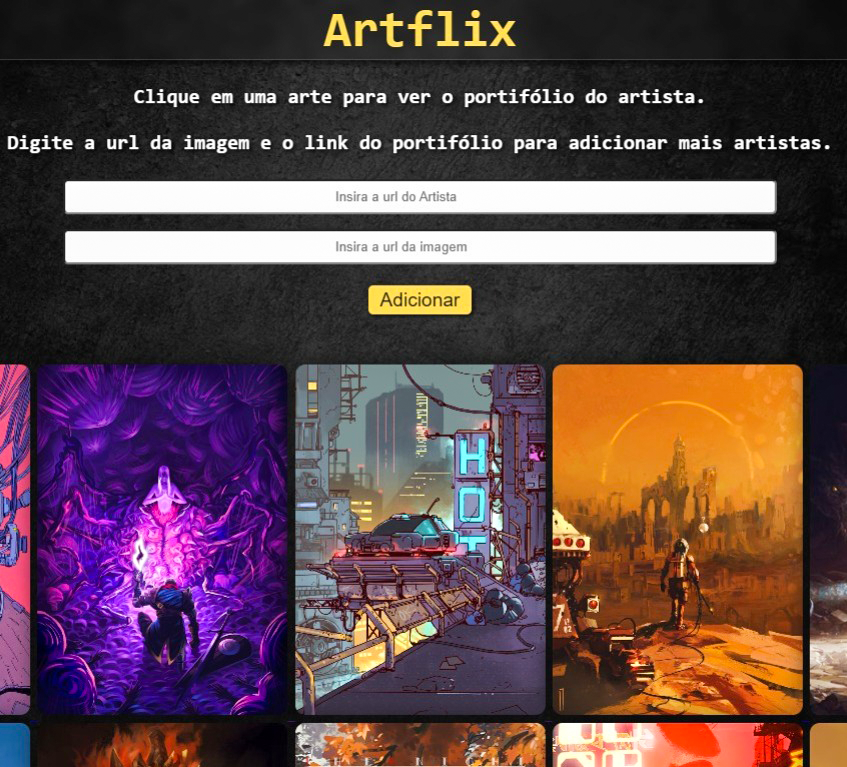
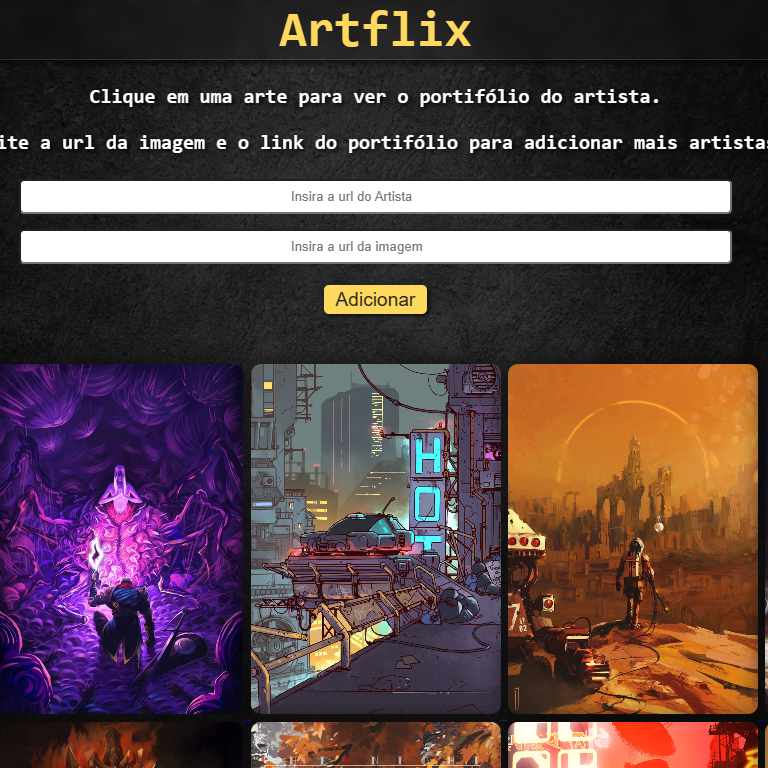
Arrumando pagina projetos

diff --git a/styles/sass/styles.css b/styles/sass/styles.css
@@ -645,13 +645,14 @@ body #projects .carrousel .frames {
   width: 100%;
 }
 body #projects .carrousel .frames .frame {
-  position: relative;
-  display: flex;
   align-items: center;
+  box-shadow: 0px 0px 50px 5px #C77318;
+  display: flex;
+  position: relative;
+  margin: auto;
   justify-content: center;
   width: 28rem;
   height: 100%;
-  box-shadow: 0px 0px 50px 5px #C77318;
   z-index: 10;
 }
 body #projects .carrousel .frames .frame .frame-image {
@@ -680,17 +681,20 @@ body #projects .carrousel .frames .frame-right .frame-image_small {
 body #projects .carrousel .frames .frame-right .project-image_small {
   height: 100%;
   width: 100%;
+  right: 9.5rem;
+  top: 1.5rem;
   -o-object-fit: cover;
      object-fit: cover;
   position: relative;
 }
 body #projects .carrousel .frames .frame-left {
-  height: 22rem;
+  height: 60%;
   width: 22rem;
-  z-index: 0;
+  z-index: 1;
 }
 body #projects .carrousel .frames .frame-left .frame-image_small {
   position: absolute;
+  left: 0;
   width: 50%;
   height: 50%;
   z-index: 1;
@@ -698,14 +702,33 @@ body #projects .carrousel .frames .frame-left .frame-image_small {
 body #projects .carrousel .frames .frame-left .project-image_small {
   height: 100%;
   width: 100%;
+  left: 9.5rem;
+  top: 1.5rem;
   -o-object-fit: cover;
      object-fit: cover;
+  position: relative;
 }
-body #projects .carrousel .prev {
-  left: 10px;
+body #projects .prev {
+  background: transparent;
+  border: none;
+  display: flex;
+  align-items: center;
+  justify-content: center;
+  position: absolute;
+  left: 3.8rem;
+  top: 52%;
 }
-body #projects .carrousel .next {
-  right: 10px;
+body #projects .next {
+  background: transparent;
+  border: none;
+  margin: 0 auto;
+  position: absolute;
+  right: 3.8rem;
+  top: 52%;
+}
+body #projects .next::before, body #projects .next::after {
+  align-items: center;
+  justify-content: center;
 }
 body #certifications {
   position: relative;

diff --git a/styles/sass/styles.sass b/styles/sass/styles.sass
@@ -617,13 +617,14 @@ body
         width: 100%
         
         .frame
-          position: relative
-          display: flex
           align-items: center
+          box-shadow: 0px 0px 50px 5px variables.$dark-orange
+          display: flex
+          position: relative
+          margin: auto
           justify-content: center
           width: 28rem
           height: 100%
-          box-shadow: 0px 0px 50px 5px variables.$dark-orange
           z-index: 10
 
           .frame-image
@@ -651,16 +652,20 @@ body
           .project-image_small
             height: 100%
             width: 100%
+            right: 9.5rem
+            top: 1.5rem
             object-fit: cover  
             position: relative
 
         .frame-left
-          height: 22rem 
+          height: 60% 
           width: 22rem 
-          z-index: 0
+          z-index: 1
+          
           
           .frame-image_small
             position: absolute
+            left: 0
             width: 50%
             height: 50%
             z-index: 1
@@ -668,13 +673,32 @@ body
           .project-image_small
             height: 100%
             width: 100%
+            left: 9.5rem
+            top: 1.5rem
             object-fit: cover  
+            position: relative
+            
+    .prev
+      background: transparent 
+      border: none
+      display: flex
+      align-items: center
+      justify-content: center
+      position: absolute
+      left: 3.8rem
+      top: 52%
 
-      .prev
-        left: 10px  
+    .next
+      background: transparent 
+      border: none
+      margin:  0 auto
+      position: absolute
+      right: 3.8rem
+      top: 52%
 
-      .next
-        right: 10px      
+      &::before,&::after
+        align-items: center
+        justify-content: center     
 
   
 

diff --git a/index.html b/index.html
@@ -167,10 +167,14 @@
             <img class="project-image_small" src="assets/images/projects/Artflix.png" alt="Imagem do projeto Artflix">
           </div>
         </div>
+        <button class="next">
+          <img src="assets/icons/arrowRight.svg" alt="Proximo">
+        </button>
+        <button class="prev">
+          <img src="assets/icons/arrowLeft.svg" alt="Anterior">
+        </button>
       </div>
     </div>
-    <button class="prev">Anterior</button>
-    <button class="next">Próxima</button>
   </section>
   <section id="certifications">
     <h2 class="title">Certificações</h2>
